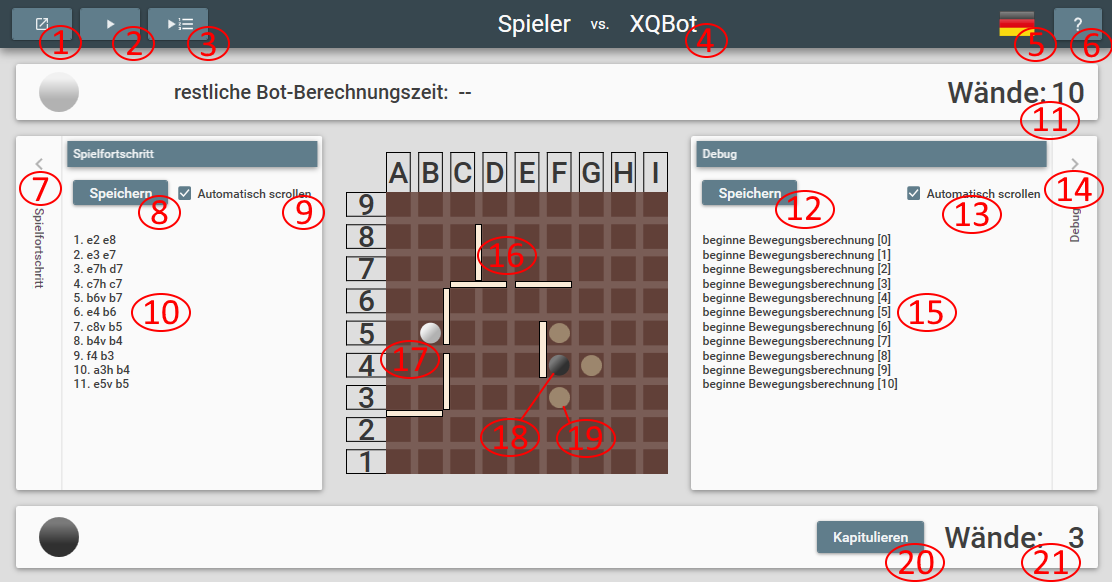
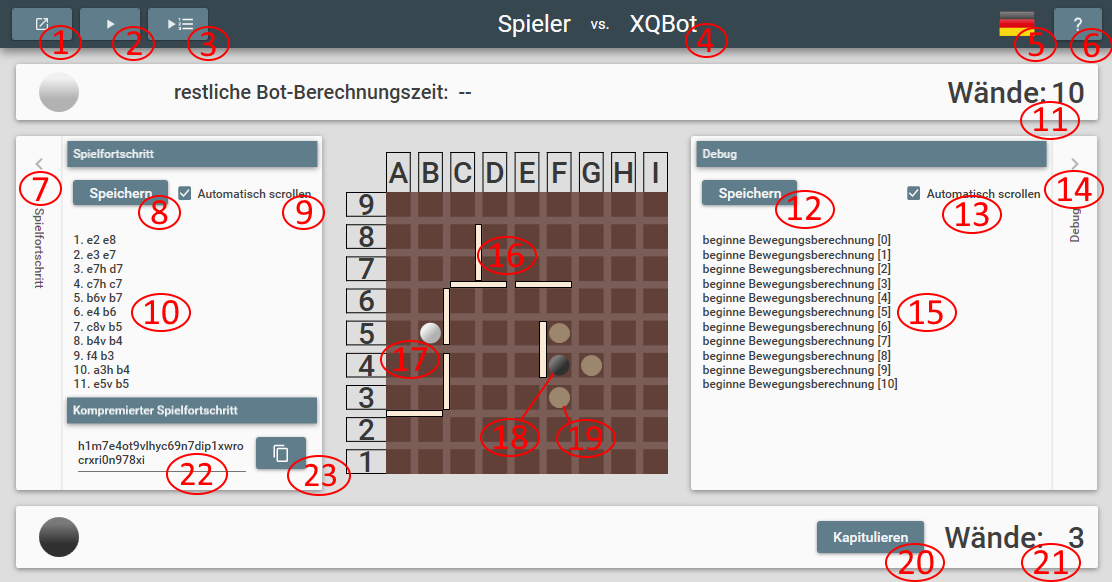
updated playerVsBotInfoPage

Changed region(s): [[0.0612, 0.6804, 0.3058, 0.866]]

diff --git a/OpenQuoridorFramework/OQF.CommonUiElements/Info/Pages/PlayerVsBotApplicationInfo.xaml b/OpenQuoridorFramework/OQF.CommonUiElements/Info/Pages/PlayerVsBotApplicationInfo.xaml
@@ -52,47 +52,29 @@
                         <TextBlock Margin="0,20,0,16"
                                    Style="{StaticResource MaterialDesignBody1TextBlock}"
                                    TextWrapping="Wrap">
-                            <Run Text="{Binding Explanation01, Mode=OneWay}" />
-                            <LineBreak />
-                            <Run Text="{Binding Explanation02, Mode=OneWay}" />
-                            <LineBreak />
-                            <Run Text="{Binding Explanation03, Mode=OneWay}" />
-                            <LineBreak />
-                            <Run Text="{Binding Explanation04, Mode=OneWay}" />
-                            <LineBreak />
-                            <Run Text="{Binding Explanation05, Mode=OneWay}" />
-                            <LineBreak />
-                            <Run Text="{Binding Explanation06, Mode=OneWay}" />
-                            <LineBreak />
-                            <Run Text="{Binding Explanation07, Mode=OneWay}" />
-                            <LineBreak />
-                            <Run Text="{Binding Explanation08, Mode=OneWay}" />
-                            <LineBreak />
-                            <Run Text="{Binding Explanation09, Mode=OneWay}" />
-                            <LineBreak />
-                            <Run Text="{Binding Explanation10, Mode=OneWay}" />
-                            <LineBreak />
-                            <Run Text="{Binding Explanation11, Mode=OneWay}" />
-                            <LineBreak />
-                            <Run Text="{Binding Explanation12, Mode=OneWay}" />
-                            <LineBreak />
-                            <Run Text="{Binding Explanation13, Mode=OneWay}" />
-                            <LineBreak />
-                            <Run Text="{Binding Explanation14, Mode=OneWay}" />
-                            <LineBreak />
-                            <Run Text="{Binding Explanation15, Mode=OneWay}" />
-                            <LineBreak />
-                            <Run Text="{Binding Explanation16, Mode=OneWay}" />
-                            <LineBreak />
-                            <Run Text="{Binding Explanation17, Mode=OneWay}" />
-                            <LineBreak />
-                            <Run Text="{Binding Explanation18, Mode=OneWay}" />
-                            <LineBreak />
-                            <Run Text="{Binding Explanation19, Mode=OneWay}" />
-                            <LineBreak />
-                            <Run Text="{Binding Explanation20, Mode=OneWay}" />
-                            <LineBreak />
-                            <Run Text="{Binding Explanation21, Mode=OneWay}" />
+                            <Run Text="{Binding Explanation01, Mode=OneWay}" /> <LineBreak />
+                            <Run Text="{Binding Explanation02, Mode=OneWay}" /> <LineBreak />
+                            <Run Text="{Binding Explanation03, Mode=OneWay}" /> <LineBreak />
+                            <Run Text="{Binding Explanation04, Mode=OneWay}" /> <LineBreak />
+                            <Run Text="{Binding Explanation05, Mode=OneWay}" /> <LineBreak />
+                            <Run Text="{Binding Explanation06, Mode=OneWay}" /> <LineBreak />
+                            <Run Text="{Binding Explanation07, Mode=OneWay}" /> <LineBreak />
+                            <Run Text="{Binding Explanation08, Mode=OneWay}" /> <LineBreak />
+                            <Run Text="{Binding Explanation09, Mode=OneWay}" /> <LineBreak />
+                            <Run Text="{Binding Explanation10, Mode=OneWay}" /> <LineBreak />
+                            <Run Text="{Binding Explanation11, Mode=OneWay}" /> <LineBreak />
+                            <Run Text="{Binding Explanation12, Mode=OneWay}" /> <LineBreak />
+                            <Run Text="{Binding Explanation13, Mode=OneWay}" /> <LineBreak />
+                            <Run Text="{Binding Explanation14, Mode=OneWay}" /> <LineBreak />
+                            <Run Text="{Binding Explanation15, Mode=OneWay}" /> <LineBreak />
+                            <Run Text="{Binding Explanation16, Mode=OneWay}" /> <LineBreak />
+                            <Run Text="{Binding Explanation17, Mode=OneWay}" /> <LineBreak />
+                            <Run Text="{Binding Explanation18, Mode=OneWay}" /> <LineBreak />
+                            <Run Text="{Binding Explanation19, Mode=OneWay}" /> <LineBreak />
+                            <Run Text="{Binding Explanation20, Mode=OneWay}" /> <LineBreak />
+                            <Run Text="{Binding Explanation21, Mode=OneWay}" /> <LineBreak />
+                            <Run Text="{Binding Explanation22, Mode=OneWay}" /> <LineBreak />
+                            <Run Text="{Binding Explanation23, Mode=OneWay}" />
                         </TextBlock>
 
                     </StackPanel>

diff --git a/OpenQuoridorFramework/OQF.Resources/LanguageDictionaries/Captions.Designer.cs b/OpenQuoridorFramework/OQF.Resources/LanguageDictionaries/Captions.Designer.cs
@@ -835,7 +835,7 @@ namespace OQF.Resources.LanguageDictionaries {
         }
         
         /// <summary>
-        ///   Looks up a localized string similar to 3. Start a game from progress-file (if a bot was loaded).
+        ///   Looks up a localized string similar to 3. Start a game from a progress (if a bot was loaded).
         /// </summary>
         public static string PvBH_Explanation03 {
             get {
@@ -1002,6 +1002,24 @@ namespace OQF.Resources.LanguageDictionaries {
         public static string PvBH_Explanation21 {
             get {
                 return ResourceManager.GetString("PvBH_Explanation21", resourceCulture);
+            }
+        }
+        
+        /// <summary>
+        ///   Looks up a localized string similar to 22. Compressed progress string.
+        /// </summary>
+        public static string PvBH_Explanation22 {
+            get {
+                return ResourceManager.GetString("PvBH_Explanation22", resourceCulture);
+            }
+        }
+        
+        /// <summary>
+        ///   Looks up a localized string similar to 23. Copy compressed progress string to clipboard.
+        /// </summary>
+        public static string PvBH_Explanation23 {
+            get {
+                return ResourceManager.GetString("PvBH_Explanation23", resourceCulture);
             }
         }
         

diff --git a/OpenQuoridorFramework/OQF.CommonUiElements/Info/Pages/PageViewModels/PlayerVsBotInfoPage/PlayerVsBotInfoPageViewModel.cs b/OpenQuoridorFramework/OQF.CommonUiElements/Info/Pages/PageViewModels/PlayerVsBotInfoPage/PlayerVsBotInfoPageViewModel.cs
@@ -37,7 +37,9 @@ namespace OQF.CommonUiElements.Info.Pages.PageViewModels.PlayerVsBotInfoPage
 		public string Explanation19 => Captions.PvBH_Explanation19;
 		public string Explanation20 => Captions.PvBH_Explanation20;
 		public string Explanation21 => Captions.PvBH_Explanation21;
-        public string DisplayName   => Captions.IP_PlayerVsBotInfoButtonCaption;
+		public string Explanation22 => Captions.PvBH_Explanation22;
+		public string Explanation23 => Captions.PvBH_Explanation23;
+		public string DisplayName   => Captions.IP_PlayerVsBotInfoButtonCaption;
 
         private void RefreshCaptions ()
 		{
@@ -64,6 +66,8 @@ namespace OQF.CommonUiElements.Info.Pages.PageViewModels.PlayerVsBotInfoPage
 										 nameof(Explanation19),
 										 nameof(Explanation20),
 										 nameof(Explanation21),
+										 nameof(Explanation22),
+										 nameof(Explanation23),
 										 nameof(DisplayName));
 		}
 

diff --git a/OpenQuoridorFramework/OQF.CommonUiElements/Info/Pages/PageViewModels/PlayerVsBotInfoPage/PlayerVsBotInfoPageViewModelSampleData.cs b/OpenQuoridorFramework/OQF.CommonUiElements/Info/Pages/PageViewModels/PlayerVsBotInfoPage/PlayerVsBotInfoPageViewModelSampleData.cs
@@ -29,6 +29,8 @@ namespace OQF.CommonUiElements.Info.Pages.PageViewModels.PlayerVsBotInfoPage
 		public string Explanation19 => "19 blubb";
 		public string Explanation20 => "20 blubb";
 		public string Explanation21 => "21 blubb";
+		public string Explanation22 => "22 blubb";
+		public string Explanation23 => "23 blubb";
         public string DisplayName   => "PlayerVsBot";
 
 

diff --git a/OpenQuoridorFramework/OQF.CommonUiElements/Info/Pages/PageViewModels/PlayerVsBotInfoPage/IPlayerVsBotInfoPageViewModel.cs b/OpenQuoridorFramework/OQF.CommonUiElements/Info/Pages/PageViewModels/PlayerVsBotInfoPage/IPlayerVsBotInfoPageViewModel.cs
@@ -28,5 +28,7 @@ namespace OQF.CommonUiElements.Info.Pages.PageViewModels.PlayerVsBotInfoPage
 		string Explanation19 { get; }
 		string Explanation20 { get; }
 		string Explanation21 { get; }
+		string Explanation22 { get; }
+		string Explanation23 { get; }
 	}
 }
